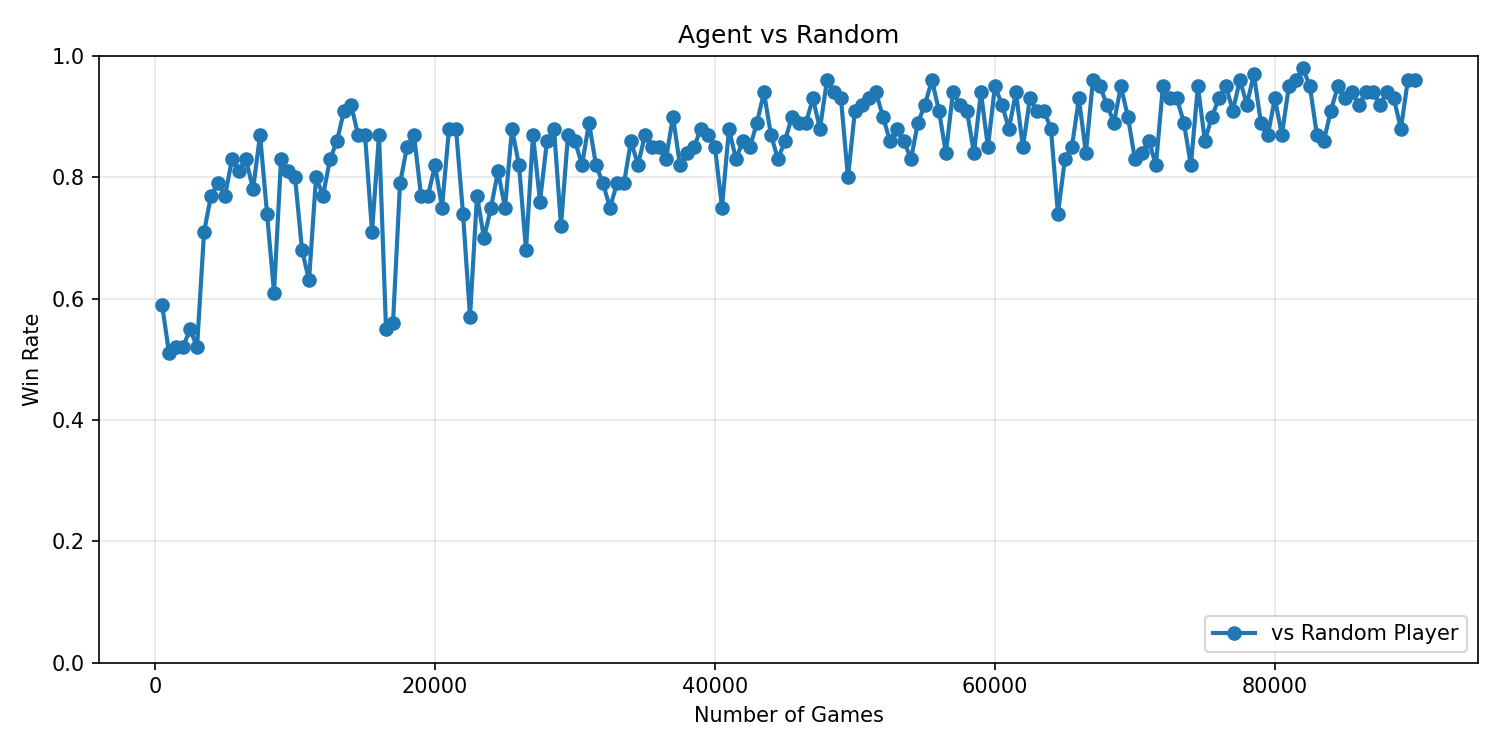
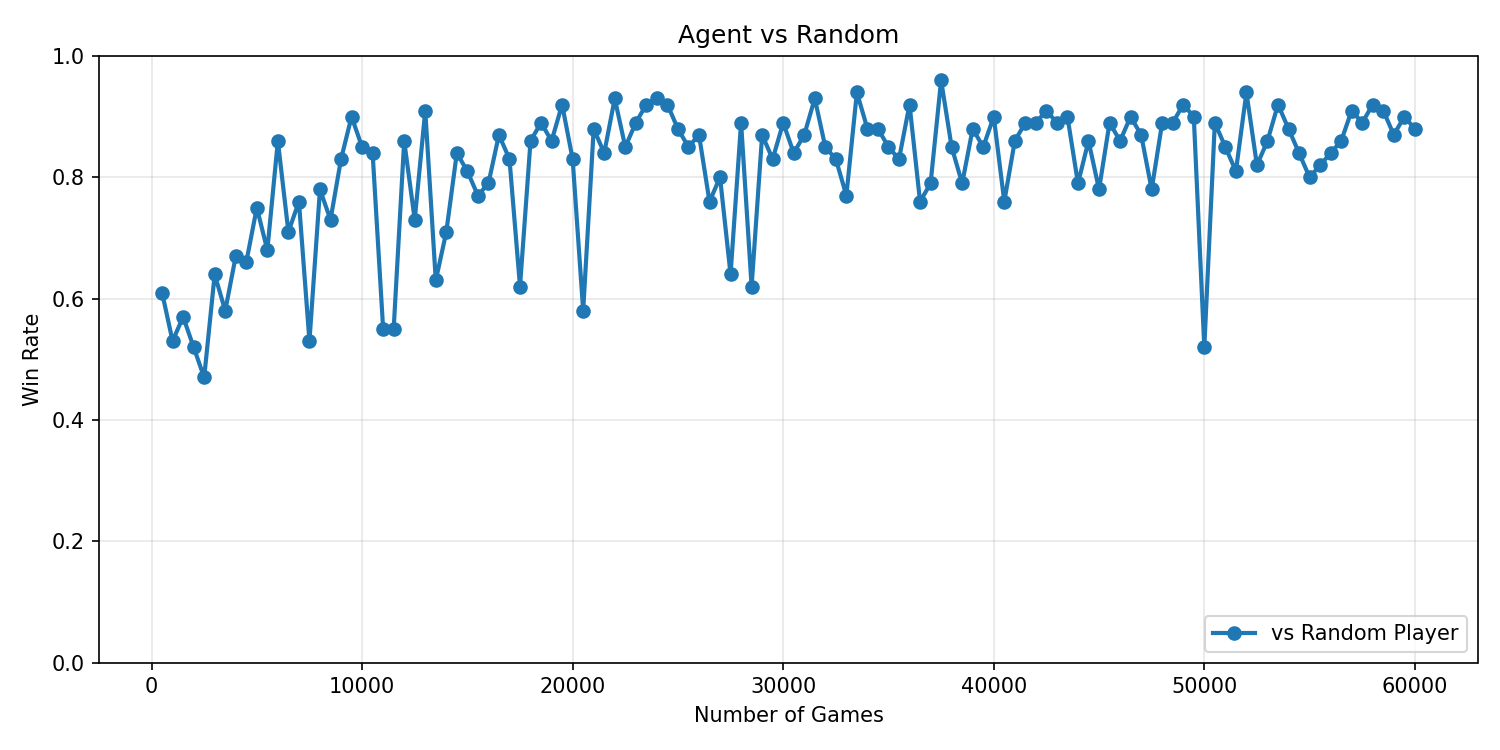
minor change

diff --git a/connect_four_rl.py b/connect_four_rl.py
@@ -305,7 +305,7 @@ def play_against_agent(agent):
     ui.run()
 
 if __name__ == "__main__":
-    agent, wr = train(num_games=90000, eval_interval=500)
+    agent, wr = train(num_games=60000, eval_interval=500)
     print(f"Final eval vs random: {wr[-1][1]:.2%}")
     plot_performance(wr)
     play_against_agent(agent)
